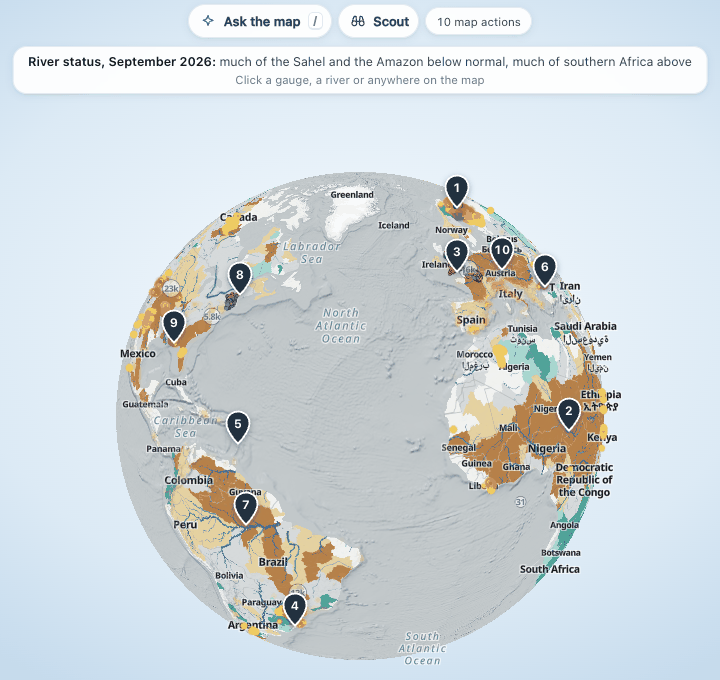
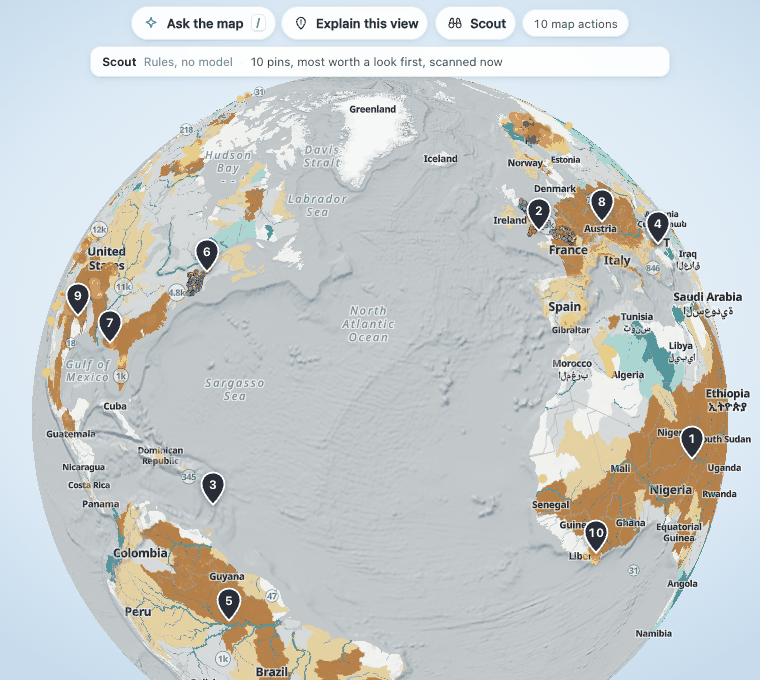
Scout: take turns with Explain, pills on one line, a tighter claim lock (#563)
- Scout and Explain this view each clear the other's numbered marks, so one
  set of numbers is on the map at a time.
- The pills above the map never squeeze onto two lines; on a tablet they sit
  to the right of the legends.
- The claim lock also refuses plurals (thousands), multiples (doubled,
  tenfold), spans of time (decades), more superlatives (worst, driest) and
  any character that stands for a number.
- The worker test reads the light types as a set; a fresh globe screenshot.

diff --git a/explorer/style.css b/explorer/style.css
@@ -1357,13 +1357,15 @@ main { overflow: clip; }
    not a data colour, so they never read as a gauge or a status class. */
 .map-ask {
   position: absolute; top: 10px; left: 50%; transform: translateX(-50%); z-index: 8;
-  width: min(460px, calc(100% - 150px)); display: flex; flex-direction: column; align-items: center; gap: 6px;
+  width: min(580px, calc(100% - 150px)); display: flex; flex-direction: column; align-items: center; gap: 6px;
   pointer-events: none;
 }
 .map-ask > * { pointer-events: auto; }
-.ma-bar { display: flex; align-items: center; justify-content: center; gap: 6px; width: 100%; }
+/* Three pills and the log's count: a pill never squeezes onto two lines; on a narrow map the count wraps under. */
+.ma-bar { display: flex; flex-wrap: wrap; align-items: center; justify-content: center; gap: 6px; width: 100%; }
 .ma-open {
   font: inherit; font-size: .8rem; font-weight: 560; color: var(--ink-2); display: inline-flex; align-items: center; gap: .45rem;
+  flex: none; white-space: nowrap;
   height: 34px; padding: 0 .55rem 0 .7rem; border-radius: 999px; border: 1px solid var(--line); cursor: pointer;
   background: var(--surface); backdrop-filter: blur(14px); -webkit-backdrop-filter: blur(14px); box-shadow: var(--shadow-1);
 }
@@ -1495,6 +1497,12 @@ main { overflow: clip; }
 @media (max-width: 1100px) {
   .map-ask { width: min(420px, calc(100% - 340px)); }
   .map-ask.open { width: min(460px, calc(100% - 120px)); }
+}
+/* A tablet: the legends sit top left (floods-past.css), so the closed pills take the map to their right and drop
+   the shortcut key; open, the box is centred and wide as before. */
+@media (min-width: 641px) and (max-width: 1100px) {
+  .map-ask:not(.open) { left: 340px; right: 56px; width: auto; transform: none; }
+  .ma-open kbd { display: none; }
 }
 /* A phone: a round button bottom right, above the panel handle; open, the bar takes the top of the map. */
 @media (max-width: 640px) {

diff --git a/explorer/src/scout.js b/explorer/src/scout.js
@@ -243,6 +243,10 @@ function clearLast() {
     if (e && !e.undone) undoEntry(id);
   }
   lastPins = [];
+  // Explain's numbered notes (#562) step aside too: two sets of numbers on one map read as one list.
+  for (const e of log.live().filter((x) => x.action && x.action.type === "add_pin" && x.after && x.after.kind === "note").reverse()) {
+    undoEntry(e.id);
+  }
 }
 
 // The line steps aside after a while (the caption it covers comes back); the pins and their undo stay.

diff --git a/explorer/src/map-explain.js b/explorer/src/map-explain.js
@@ -168,6 +168,10 @@ const explainPins = () => log.live().filter((e) => e.action && e.action.type ===
 
 function clearNotes() {
   for (const e of explainPins().reverse()) undoEntry(e.id);
+  // Scout's numbered pins (#563) step aside too: two sets of numbers on one map read as one list.
+  for (const e of log.live().filter((x) => x.action && x.action.type === "add_pin" && x.after && x.after.rank).reverse()) {
+    undoEntry(e.id);
+  }
 }
 
 function pinNotes(notes, by) {

diff --git a/aquascope/map_scout.py b/aquascope/map_scout.py
@@ -44,6 +44,7 @@ import re
 import shutil
 import tempfile
 import time
+import unicodedata
 from collections import deque
 from datetime import date, datetime, timezone
 from pathlib import Path
@@ -1019,9 +1020,11 @@ def _mark_places(findings: list[dict[str, Any]]) -> None:
 
 _NUMBER_WORDS = re.compile(
     r"\b(zero|one|two|three|four|five|six|seven|eight|nine|ten|eleven|twelve|thirteen|fourteen|fifteen|"
-    r"sixteen|seventeen|eighteen|nineteen|twenty|thirty|forty|fifty|sixty|seventy|eighty|ninety|hundred|"
-    r"thousand|million|billion|half|twice|double|triple|thrice|quarter|dozen|percent|first|third|"
-    r"record|highest|lowest|largest|smallest|most|unprecedented)\b", re.I)
+    r"sixteen|seventeen|eighteen|nineteen|twenty|thirty|forty|fifty|sixty|seventy|eighty|ninety|hundreds?|"
+    r"thousands?|millions?|billions?|half|halved|halves|twice|double[ds]?|triple[ds]?|thrice|quarters?|dozens?|"
+    r"percent|first|third|\w+fold|decades?|century|centuries|"
+    r"records?|highest|lowest|largest|smallest|biggest|greatest|worst|strongest|weakest|wettest|driest|"
+    r"deepest|most|least|unprecedented)\b", re.I)
 
 
 def check_wording(text: str, slots: dict[str, str], limit: int) -> tuple[str | None, str | None]:
@@ -1035,7 +1038,9 @@ def check_wording(text: str, slots: dict[str, str], limit: int) -> tuple[str | N
     if unknown:
         return None, f"unknown slot {{{unknown[0]}}}"
     bare = re.sub(r"\{\w+\}", " ", raw)
-    if re.search(r"[0-9%‰½¼¾]", bare) or _NUMBER_WORDS.search(bare) or "{" in bare or "}" in bare:
+    # Any character that stands for a number counts too: other scripts' digits, fractions, Roman numerals.
+    numeric = any(c in "%‰" or unicodedata.numeric(c, None) is not None for c in bare)
+    if numeric or _NUMBER_WORDS.search(bare) or "{" in bare or "}" in bare:
         return None, "a number or a ranking word outside the slots"
     filled = re.sub(r"\{(\w+)\}", lambda m: slots[m.group(1)], raw)
     filled = re.sub(r"\s+", " ", filled).strip()

diff --git a/tests/test_map_scout.py b/tests/test_map_scout.py
@@ -309,10 +309,16 @@ def test_check_wording_holds_numbers_to_the_slots():
     ok, why = ms.check_wording("{place}: the river may reach {peak}", slots, 80)
     assert ok == "Paraná, Brazil: the river may reach 2,840 m³/s" and why is None
     for bad in ("{place}: about 3,000 m³/s", "{place}: twice its usual flow", "{place}: a record flood",
-                "{place}: 50% of members", "{place}: the {nowhere}", ""):
+                "{place}: 50% of members", "{place}: the {nowhere}", "",
+                # plurals, multiples, spans of time, other superlatives and other scripts' digits (review of #575)
+                "{place}: thousands of people", "{place}: flow doubled", "{place}: a tenfold rise",
+                "{place}: the worst in decades", "{place}: the driest September", "{place}: ½ the usual flow",
+                "{place}: ٣ rivers"):
         text, why = ms.check_wording(bad, slots, 80)
         assert text is None and why
     assert ms.check_wording("{place} " * 20, slots, 80) == (None, "too long")
+    # Plain words that only look like numbers pass: "someone", "often", "tendency".
+    assert ms.check_wording("{place}: someone often sees this tendency", slots, 80)[0]
 
 
 def _three():
@@ -496,7 +502,9 @@ def test_explorer_kind_labels_match():
 
 def test_worker_runs_the_scout_in_a_light_worker():
     worker = (ROOT / "explorer" / "worker.js").read_text()
-    assert '"scout"]);' in worker and "_sc.scout_view(" in worker and "_sc.apply_wording(" in worker
+    lite = re.search(r"const LITE_TYPES = new Set\(\[([^\]]*)\]\)", worker)
+    assert lite and '"scout"' in lite.group(1)
+    assert "_sc.scout_view(" in worker and "_sc.apply_wording(" in worker
 
 
 def test_daily_workflow_writes_and_publishes_scout_only():

diff --git a/CHANGELOG.md b/CHANGELOG.md
@@ -12,7 +12,7 @@ All notable changes to AquaScope are documented here.
   - `aquascope.map_scout`: fixed rules over the published layers. The largest connected areas much above or below normal in the month's world river status; the Floods ahead reaches with the highest class on the largest rivers, one per river group; the month's strongest groups of floods in the news and seen by radar; groups of gauges much above or below normal today around the most extreme one; gauges where no scored model beats the gauge's mean flow (a model at a hundredth or tenfold of the gauge's volume is left out as a units or matching problem). Ranked kind by kind with a share each, never two pins closer than a pin's height on screen, place names from Photon reverse geocoding (ODbL).
   - Every number is formatted by the package into slots. A model (Chrome's built-in model, or the reader's own key) may order the findings and word them, but wording with a digit, a percent sign, a number word or a ranking word outside the slots is refused and the rules' wording kept (`apply_wording`, the claim lock).
   - Daily, after the Floods ahead issue, `.github/workflows/flood-warnings.yml` runs `python -m aquascope.map_scout daily` and publishes `scout/latest.json` and a dated copy, writing only under `scout/` (a failed scout neither turns the day's issue red nor publishes an empty file). Each finding has its lat and lon, title, reason, headline `value` and `unit`, all its numbers and its source. It adds record checks: a named region's share much above or below normal against the same calendar month since 1990, and flood cells against the same month since 2000. The Explorer uses it for the half-globe view at the newest month and scans the view in the browser otherwise.
-  - `aquascope layers scout [--bbox W S E N] [--month] [--published]`, the MCP tool `map_scout`, and the WebMCP tool `aquascope_scout`. Map pins can carry a rank and a kind (`addPin`), and a pin's row in the action log opens its card.
+  - `aquascope layers scout [--bbox W S E N] [--month] [--published]`, the MCP tool `map_scout`, and the WebMCP tool `aquascope_scout`. Map pins can carry a rank and a kind (`addPin`), and a pin's row in the action log opens its card. Scout and Explain this view take turns on the map (each clears the other's numbered marks), and the pills above the map no longer squeeze onto two lines.
 - **Explain this view** (#562, part of #566): "what am I seeing?" answered with three to five short notes pinned on the map, each at the place it describes and each naming its source ([docs](docs/explorer.md#explain-this-view)).
   - `aquascope.map_explain`: `view_facts(view, status, warnings, floods_past, gauges)` reads a view (its box, date and the layers that are on) into facts by code, each with value, unit, place and source: the share of the mapped land in each river status class and the largest areas away from normal, the reaches forecast to pass their return-period flows, the gauges furthest from normal today, and where most floods were reported or seen by radar. `template_notes` words them with no model. `check_model_notes` holds a model's notes to the facts: the model chooses, orders and words; the numbers go in by code from placeholders, and a note with any other number, in digits or in words, is refused (the claim lock).
   - In the Explorer: an **Explain this view** button beside Ask the map, and "what am I seeing?" in the box. Notes are numbered dots in the colour of what they describe, with cards that keep off each other, the legend and the time bar; the on-device model or the reader's own key words them where one is ready, the fixed wording otherwise. Every note is in the action log with its undo.

diff --git a/docs/explorer.md b/docs/explorer.md
@@ -174,8 +174,9 @@ The **Scout** pill beside **Ask the map** looks at the view on screen and drops 
 ten numbered pins on what stands out, most worth a look first. Each pin opens a card
 with its title, its reason in a sentence or two, the main number and where it came
 from. The pins go in the action log, so **Undo all** or a pin's **Remove pin** takes
-them away, and a second Scout replaces the first one's pins. A pin's row in the log
-opens its card.
+them away, and a second Scout replaces the first one's pins. Scout and **Explain this
+view** take turns: each clears the other's numbered marks, so one set of numbers is on
+the map at a time. A pin's row in the log opens its card.
 
 ![Scout: ten pins on what stands out today](img/globe/563-scout-globe.png)
 
